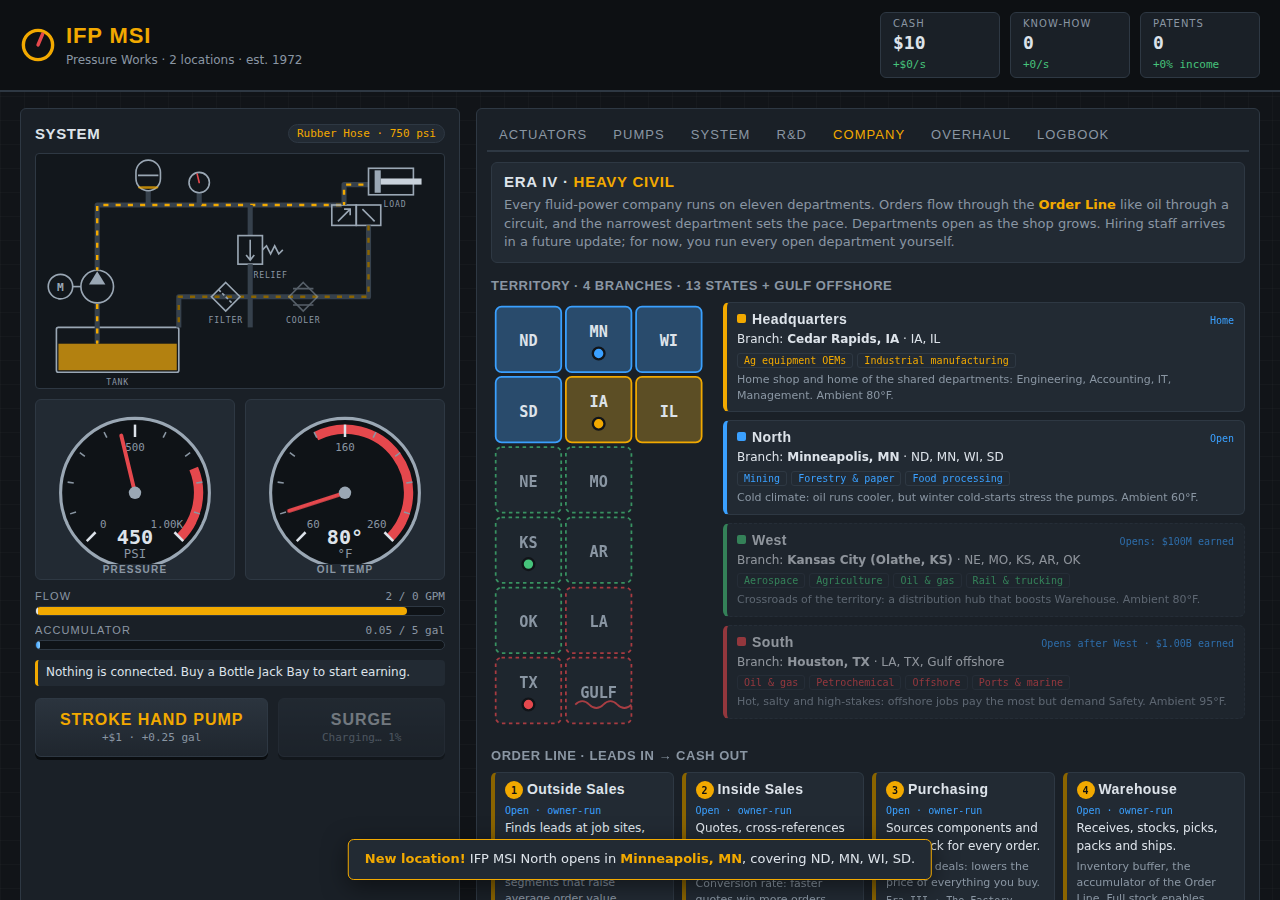
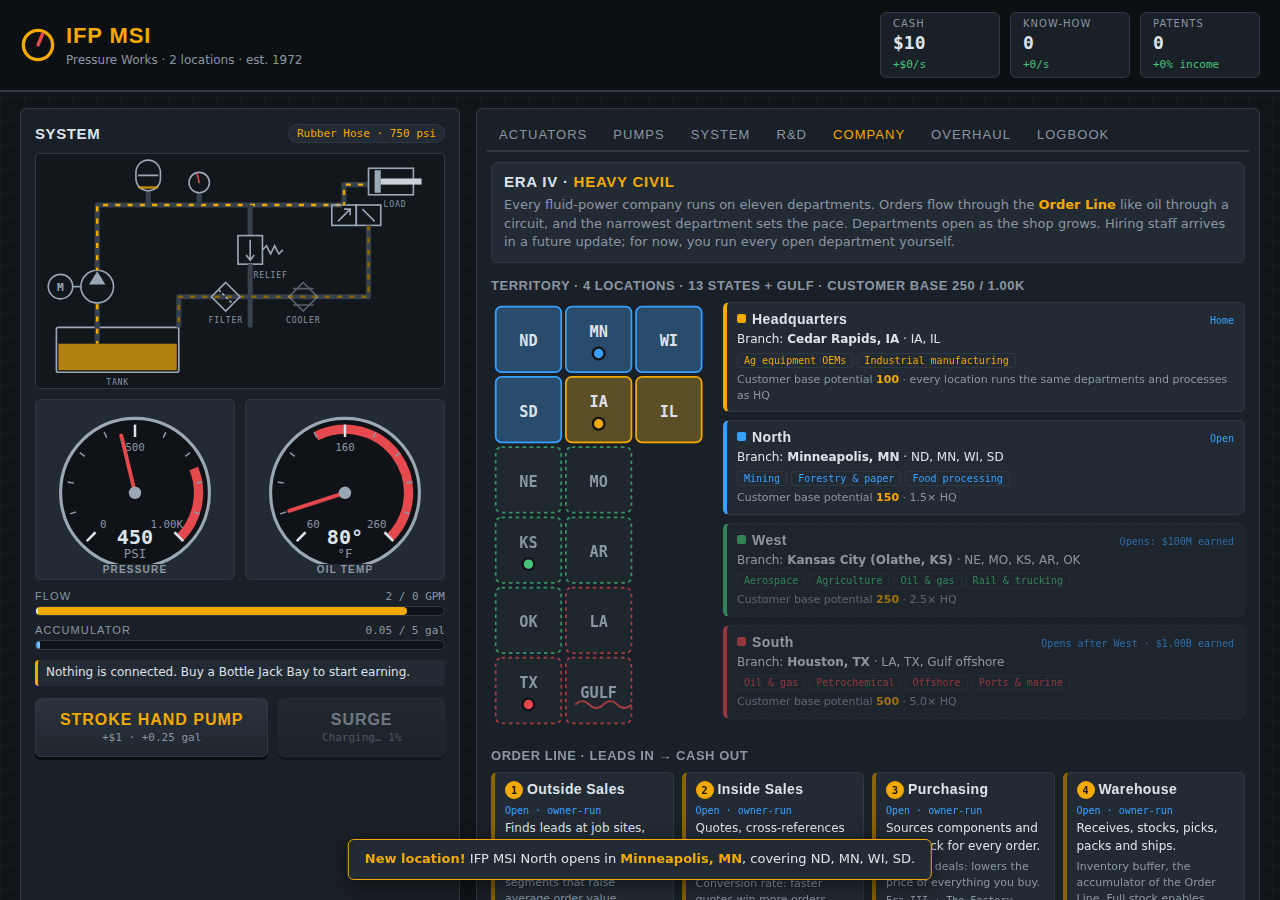
Make every location an extension of HQ that adds customer base
- Drop per-region mechanics (climate, hub, offshore rules): every location
  runs the same departments and processes as HQ
- STATES gain customer-base potential (HQ 100, North 150, West 250,
  South 500; 1,000 total); customerBase() helper
- Company tab shows each location's customer base and the open total
- TERRITORY.md: customer base as the demand ceiling (locations widen the
  market, Outside Sales raises penetration); roadmap and docs updated

Claude-Session: https://claude.ai/code/session_019K4gpM5MvitQKaF82oD189

diff --git a/src/data.js b/src/data.js
@@ -201,40 +201,39 @@
   ];
 
   // ---- Territory ------------------------------------------------------------
-  // See docs/TERRITORY.md. Four locations unlock in this order as the company
-  // grows (Iowa → North → West → South); each needs the one before it. They
-  // don't affect income yet. They cover 13 states plus the Gulf offshore region. `x, y` place each state on the
-  // tile map in the Company tab (a cartogram, not to scale).
+  // See docs/TERRITORY.md. Every location is an extension of HQ: same
+  // departments, same processes. What a new location adds is customer base.
+  // Locations unlock in this order as the company grows (Iowa → North → West →
+  // South); each needs the one before it. Customer base doesn't affect income
+  // yet. `customers` is relative customer-base potential (13 states + the Gulf
+  // = 1,000). `x, y` place each state on the Company tab's tile map (a
+  // cartogram, not to scale).
   const REGIONS = [
-    { id: 'hq', name: 'Headquarters', branch: 'Cedar Rapids, IA', opens: {}, era: 0, ambientF: 80,
-      markets: ['Ag equipment OEMs', 'Industrial manufacturing'],
-      twist: 'Home shop and home of the shared departments: Engineering, Accounting, IT, Management.' },
-    { id: 'north', name: 'North', branch: 'Minneapolis, MN', opens: { lifetime: 1e7 }, era: 3, ambientF: 60,
-      markets: ['Mining', 'Forestry & paper', 'Food processing'],
-      twist: 'Cold climate: oil runs cooler, but winter cold-starts stress the pumps.' },
-    { id: 'west', name: 'West', branch: 'Kansas City (Olathe, KS)', opens: { lifetime: 1e8 }, era: 3, ambientF: 80,
-      markets: ['Aerospace', 'Agriculture', 'Oil & gas', 'Rail & trucking'],
-      twist: 'Crossroads of the territory: a distribution hub that boosts Warehouse.' },
-    { id: 'south', name: 'South', branch: 'Houston, TX', opens: { lifetime: 1e9 }, era: 4, ambientF: 95,
-      markets: ['Oil & gas', 'Petrochemical', 'Offshore', 'Ports & marine'],
-      twist: 'Hot, salty and high-stakes: offshore jobs pay the most but demand Safety.' },
+    { id: 'hq',    name: 'Headquarters', branch: 'Cedar Rapids, IA',         opens: {},                era: 0,
+      markets: ['Ag equipment OEMs', 'Industrial manufacturing'] },
+    { id: 'north', name: 'North',        branch: 'Minneapolis, MN',          opens: { lifetime: 1e7 }, era: 3,
+      markets: ['Mining', 'Forestry & paper', 'Food processing'] },
+    { id: 'west',  name: 'West',         branch: 'Kansas City (Olathe, KS)', opens: { lifetime: 1e8 }, era: 3,
+      markets: ['Aerospace', 'Agriculture', 'Oil & gas', 'Rail & trucking'] },
+    { id: 'south', name: 'South',        branch: 'Houston, TX',              opens: { lifetime: 1e9 }, era: 4,
+      markets: ['Oil & gas', 'Petrochemical', 'Offshore', 'Ports & marine'] },
   ];
 
   const STATES = [
-    { id: 'ND', name: 'North Dakota', region: 'north', x: 1, y: 0 },
-    { id: 'MN', name: 'Minnesota',    region: 'north', x: 2, y: 0, branch: true },
-    { id: 'WI', name: 'Wisconsin',    region: 'north', x: 3, y: 0 },
-    { id: 'SD', name: 'South Dakota', region: 'north', x: 1, y: 1 },
-    { id: 'IA', name: 'Iowa',         region: 'hq',    x: 2, y: 1, branch: true },
-    { id: 'IL', name: 'Illinois',     region: 'hq',    x: 3, y: 1 },
-    { id: 'NE', name: 'Nebraska',     region: 'west',  x: 1, y: 2 },
-    { id: 'MO', name: 'Missouri',     region: 'west',  x: 2, y: 2 },
-    { id: 'KS', name: 'Kansas',       region: 'west',  x: 1, y: 3, branch: true },
-    { id: 'AR', name: 'Arkansas',     region: 'west',  x: 2, y: 3 },
-    { id: 'OK', name: 'Oklahoma',     region: 'west',  x: 1, y: 4 },
-    { id: 'LA', name: 'Louisiana',    region: 'south', x: 2, y: 4 },
-    { id: 'TX', name: 'Texas',        region: 'south', x: 1, y: 5, branch: true },
-    { id: 'GULF', name: 'Gulf offshore', region: 'south', x: 2, y: 5, offshore: true },
+    { id: 'ND',   name: 'North Dakota',  region: 'north', customers: 25,  x: 1, y: 0 },
+    { id: 'MN',   name: 'Minnesota',     region: 'north', customers: 60,  x: 2, y: 0, branch: true },
+    { id: 'WI',   name: 'Wisconsin',     region: 'north', customers: 50,  x: 3, y: 0 },
+    { id: 'SD',   name: 'South Dakota',  region: 'north', customers: 15,  x: 1, y: 1 },
+    { id: 'IA',   name: 'Iowa',          region: 'hq',    customers: 40,  x: 2, y: 1, branch: true },
+    { id: 'IL',   name: 'Illinois',      region: 'hq',    customers: 60,  x: 3, y: 1 },
+    { id: 'NE',   name: 'Nebraska',      region: 'west',  customers: 40,  x: 1, y: 2 },
+    { id: 'MO',   name: 'Missouri',      region: 'west',  customers: 60,  x: 2, y: 2 },
+    { id: 'KS',   name: 'Kansas',        region: 'west',  customers: 50,  x: 1, y: 3, branch: true },
+    { id: 'AR',   name: 'Arkansas',      region: 'west',  customers: 40,  x: 2, y: 3 },
+    { id: 'OK',   name: 'Oklahoma',      region: 'west',  customers: 60,  x: 1, y: 4 },
+    { id: 'LA',   name: 'Louisiana',     region: 'south', customers: 100, x: 2, y: 4 },
+    { id: 'TX',   name: 'Texas',         region: 'south', customers: 300, x: 1, y: 5, branch: true },
+    { id: 'GULF', name: 'Gulf offshore', region: 'south', customers: 100, x: 2, y: 5, offshore: true },
   ];
 
   const CONSTANTS = {

diff --git a/src/ui.js b/src/ui.js
@@ -181,7 +181,7 @@
       const x = X0 + st.x * (T + G), y = Y0 + st.y * (T + G);
       const r = REGIONS.find((g) => g.id === st.region);
       svg += `<g class="tile region-${st.region}${st.offshore ? ' offshore' : ''}" data-state="${st.id}">
-        <title>${st.name} · ${r.name} region${st.branch ? ' · branch: ' + r.branch : ''}</title>
+        <title>${st.name} · ${r.name} · customer base ${st.customers}${st.branch ? ' · location: ' + r.branch : ''}</title>
         <rect x="${x}" y="${y}" width="${T}" height="${T}" rx="5"/>
         ${st.offshore ? `<path class="waves" d="M${x + 8} ${y + 40} q6 -6 12 0 t12 0 t12 0 t12 0"/>` : ''}
         <text x="${x + T / 2}" y="${y + (st.branch ? 26 : 34)}">${st.offshore ? 'GULF' : st.id}</text>
@@ -200,13 +200,17 @@
       el.innerHTML = `<div class="dept-head"><span class="dept-name"><i class="swatch"></i>${r.name}</span><span class="dept-status"></span></div>
         <div class="dept-role">Branch: <b>${r.branch}</b> · ${states.join(', ')}</div>
         <div class="dept-teams">${r.markets.map((m) => `<span>${m}</span>`).join('')}</div>
-        <div class="dept-twist">${r.twist} Ambient ${r.ambientF}°F.</div>`;
+        <div class="dept-twist">Customer base potential <b>${fmt(E.customerBase(null, r.id))}</b>${r.id === 'hq'
+          ? ' · every location runs the same departments and processes as HQ'
+          : ` · ${(E.customerBase(null, r.id) / E.customerBase(null, 'hq')).toFixed(1)}× HQ`}</div>`;
       list.appendChild(el);
       regionEls[r.id] = { el, status: el.querySelector('.dept-status') };
     }
   }
 
   function renderTerritory(s) {
+    const total = STATES.reduce((sum, st) => sum + st.customers, 0);
+    $('customer-base').textContent = `customer base ${fmt(E.customerBase(s))} / ${fmt(total)}`;
     for (const r of REGIONS) {
       const open = E.regionOpen(s, r);
       regionEls[r.id].el.classList.toggle('closed', !open);

diff --git a/src/engine.js b/src/engine.js
@@ -305,6 +305,12 @@
     const i = DATA.REGIONS.indexOf(region);
     return (i === 0 || !!s.locations[DATA.REGIONS[i - 1].id]) && opensMet(s, region.opens);
   }
+  /** Customer-base potential of a region, or of every open location if omitted. */
+  function customerBase(s, regionId) {
+    return DATA.STATES
+      .filter((st) => (regionId ? st.region === regionId : s.locations[st.region]))
+      .reduce((sum, st) => sum + st.customers, 0);
+  }
   /** Records newly reached locations and returns them (for announcements). */
   function checkLocations(s) {
     const opened = [];
@@ -343,7 +349,7 @@
     bulkCost, maxAffordable, isUnlocked, quote, buy,
     nextTier, canUpgradeTier, upgradeTier, accCapacity, accUpgradeCost, upgradeAccumulator,
     techAvailable, research, click, canSurge, surge,
-    patentsTotal, overhaulGain, canOverhaul, overhaul, opensMet, departmentOpen, regionOpen, checkLocations, currentEra,
+    patentsTotal, overhaulGain, canOverhaul, overhaul, opensMet, departmentOpen, regionOpen, checkLocations, customerBase, currentEra,
     serialize, deserialize,
   };
   root.PW = root.PW || {};

diff --git a/index.html b/index.html
@@ -172,7 +172,7 @@
             <b>Order Line</b> like oil through a circuit, and the narrowest department sets the pace.
             Departments open as the shop grows. Hiring staff arrives in a future update; for now, you run every open department yourself.</p>
         </div>
-        <h3>Territory <span class="muted">· 4 branches · 13 states + Gulf offshore</span></h3>
+        <h3>Territory <span class="muted">· 4 locations · 13 states + Gulf · <span id="customer-base"></span></span></h3>
         <div class="territory">
           <svg id="territory-map" class="territory-map" viewBox="0 0 188 368" role="img" aria-label="Territory map"></svg>
           <div id="region-list" class="region-list"></div>

diff --git a/docs/TERRITORY.md b/docs/TERRITORY.md
@@ -1,9 +1,11 @@
-# Territory — branches, regions and states
+# Territory — locations and customer base
 
-> Design v0.2. In the game today: the company is **IFP MSI**, and locations
-> **unlock in order as you grow, Iowa → North → West → South**, each with a
-> "New location!" announcement. The map is on the **Company** tab. The
-> regional mechanics below come later.
+> Design v0.3. **Every location is an extension of HQ:** the same departments,
+> the same processes, but a bigger customer base. In the game today, the
+> company is **IFP MSI**, and locations **unlock in order as you grow, Iowa →
+> North → West → South**, each with a "New location!" announcement. The Company
+> tab shows the map and each location's customer-base potential. Customer base
+> starts affecting income once Departments ship.
 
 ## Real-world basis
 
@@ -50,54 +52,54 @@ and as the company grows it unlocks new locations in a fixed order:
 *Optional flavor:* the logbook's calendar starts in **1972**, and each era is
 roughly a decade, ending in the present day.
 
-## How branches fit the Departments system
+## Every location is an extension of HQ
 
-Branches are where the Order Line meets geography. **Working assumption (please
-correct it):** each branch runs its own customer-facing departments, and HQ runs
-the shared ones.
+A new location doesn't bring new rules. It runs the **same eleven departments
+and the same processes** as Cedar Rapids, and it sells the same products,
+Valve-Paks, Base-Paks and Sys-Paks included. What it adds is **more customers to
+sell to**.
 
-| Runs at every branch | Shared from HQ |
-|---|---|
-| Outside Sales, Inside Sales, Warehouse, Production (service & repair shop) | Engineering, Accounting, IT, Management, Purchasing, Quality, Safety |
+That keeps the game easy to read. The player learns one company, and every
+location makes that company bigger.
 
-So:
+## Customer base: the demand ceiling
 
-- A branch adds a **parallel Order Line front end**: its own leads, quotes,
-  stock and shop. The branches' output then merges into HQ's shared back half
-  (Quality, Accounting). Branches add capacity. They don't add new bottlenecks
-  to the shared departments, but they **do** push more volume through them.
-  Grow branches and you'll need to grow HQ.
-- **Engineering stays at HQ,** so every Valve-Pak, Base-Pak and Sys-Pak comes
-  from Cedar Rapids. Branches *sell* Paks into their regional markets, and
-  Sys-Pak projects are tagged with a region (for example, "Gulf platform HPU",
-  "Iron Range crusher system", "Wichita test-stand").
+Each state has a **customer-base potential**. A location adds all of its states
+when it opens:
 
-## Regional twists
+| Location | States (potential) | Customer base | vs HQ |
+|---|---|---:|---:|
+| **HQ** · Cedar Rapids | IA 40, IL 60 | 100 | 1× |
+| **North** · Minneapolis | MN 60, WI 50, ND 25, SD 15 | 150 | 1.5× |
+| **West** · Kansas City | MO 60, OK 60, KS 50, NE 40, AR 40 | 250 | 2.5× |
+| **South** · Houston | TX 300, LA 100, Gulf offshore 100 | 500 | 5× |
+| **Total** | 13 states + Gulf | **1,000** | |
 
-Each region has one mechanical twist, the way each department does.
+The numbers are relative and easy to change (`STATES[].customers` in
+`src/data.js`). If you have a better sense of the real relative sizes, swap them in.
 
-| Region | Twist | Mechanic (first pass) |
-|---|---|---|
-| **HQ** | Home of the shared departments | Shared-department capacity +10% per open branch (economies of scale) |
-| **North** | Cold climate | Branch shop ambient **60°F**, so cooling goes further. Winter **cold-start** events: for 60 s after one, pump efficiency drops 5% unless the branch has reservoir heaters. |
-| **West** | Crossroads distribution hub | Warehouse capacity ×1.5 company-wide while West is open; Rush Ship lasts longer |
-| **South** | Hot, salty, high-stakes | Branch shop ambient **95°F**, so it needs more cooling. **Offshore** jobs pay ×3 but need a minimum Safety level, and their incidents cost twice as much. |
+**How it plays (with Departments):** customers set the most the company can
+sell, however much the shop can produce.
 
-The ambient temperatures plug straight into the existing heat formula
-(`T_eq = ambient + heat / k`), so a branch shop in Houston really does run hotter
-than one in Minneapolis.
+```
+demand ceiling ($/s) = customer base of open locations × market penetration × $ per customer point
+realized income      = min(Order Line throughput, demand ceiling)
+```
 
-## States: coverage within a region
+- **Locations widen the market.** Each unlock is a big step: total customer base
+  goes 100 → 250 → 500 → 1,000, so the ceiling rises ×2.5, ×2 and ×2.
+- **Outside Sales digs deeper into it.** *Market penetration* grows with
+  Outside Sales headcount and the industry markets they open (ag equipment,
+  mining, aerospace, oil & gas…). That's the steady growth between unlocks.
+- When the shop out-produces its customers, the alert says so: *"Customers are
+  maxed out: 30% of production unsold. Grow Outside Sales or open the next
+  location."* Opening a new location is the big release.
 
-When a region opens, its branch's home state is covered. Outside Sales then
-**expands coverage** state by state:
+Until Departments ship there is no ceiling, and customer base is only shown.
 
-- Covering a state is a one-time purchase (`300 s × production at the time`, ×2
-  for each state already covered in that region).
-- Each covered state adds **+10% leads** in its region and opens that state's
-  **signature market** for Outside Sales:
+## Industries by state (flavor for markets and projects)
 
-| State | Signature market | State | Signature market |
+| State | Signature industry | State | Signature industry |
 |---|---|---|---|
 | IA | Ag equipment | KS | Aerospace |
 | IL | Heavy equipment manufacturing | NE | Irrigation & agriculture |
@@ -107,28 +109,22 @@ When a region opens, its branch's home state is covered. Outside Sales then
 | SD | Agriculture | TX | Oil & gas, petrochemical |
 | GULF | Offshore platforms | LA | Petrochemical, ports & marine |
 
-On the map, covered states fill with the region's color, and uncovered states
-in an open region are outlined.
+These name the Outside Sales markets, and they tag Sys-Pak projects with a place
+(for example, "Gulf platform HPU", "Iron Range crusher system", "Wichita test
+stand"). Projects from a location only show up once it's open.
 
 ## Implementation phases
 
-1. **Placeholder (done).** Territory map and region cards on the Company tab,
-   driven by `REGIONS`/`STATES`, opening on the conditions above with no effect
-   on income.
-2. **Branches as Order Line front ends.** Opening a branch adds a parallel
-   Outside Sales → Inside Sales → Warehouse feed into the shared back half.
-   State coverage. Regional market multipliers. This depends on Departments v0.2.
-3. **Branch shops.** Each branch gets its own small hydraulic shop floor using
-   the region's ambient temperature, switched with a location picker on the
-   System panel. Repair & refurbishing jobs live here as a **service bench**:
-   customers bring in worn cylinders and pumps, you rebuild them for cash, and
-   that's a light active loop.
-4. **Offshore.** Gulf jobs: high pay, need Safety, punishing incidents.
+1. **Done.** Territory map, unlock order with announcements, locations kept
+   through Overhaul, customer base shown per location and in total.
+2. **With Departments.** Demand ceiling = customer base × market penetration;
+   Outside Sales drives penetration; the "customers maxed out" alert.
+3. **Projects and markets.** Location-tagged Sys-Pak projects and per-state
+   industry markets.
 
 ## Open questions
 
-- Is the "branch-local vs HQ-shared" split above how the business really works?
-  For example, does each location have its own Purchasing or Warehouse? Does
-  Production at a branch mean repair and service, manufacturing, or both?
+- Do the relative customer-base sizes (South biggest, then West, North, HQ) feel
+  right for the business?
 - Should the map stay a tidy tile grid, or switch to a real (stylized)
   geographic map later?

diff --git a/README.md b/README.md
@@ -28,7 +28,7 @@ python3 -m http.server 8000   # then visit http://localhost:8000
 - Spare flow charges the **accumulator**. Dump it with **Surge** for ×3–×4 income.
 - **Know-how** funds a 17-node **R&D tree** of real hydraulic breakthroughs.
 - **Overhaul** (prestige) trades everything for **Patents**, each one +10% income forever.
-- The **Company** tab previews the territory (four branches, 13 states) and the eleven departments that run the business. They're coming in the next update.
+- As you grow, new **locations** unlock: Iowa → North → West → South. The **Company** tab shows them on a map with their customer base, alongside the eleven departments that run the business (those come in the next update).
 
 ## Project layout
 
@@ -50,7 +50,7 @@ docs/               design documents and sketches
 |---|---|
 | [GAME_DESIGN.md](docs/GAME_DESIGN.md) | Pitch, pillars, core loop, every system, eras, presentation |
 | [DEPARTMENTS.md](docs/DEPARTMENTS.md) | **Next major system:** the eleven departments as an Order Line, plus Engineering's Valve-Pak / Base-Pak / Sys-Pak lines |
-| [TERRITORY.md](docs/TERRITORY.md) | Branches and regions: HQ in Iowa plus North, West and South branches across 13 states and the Gulf |
+| [TERRITORY.md](docs/TERRITORY.md) | Locations unlock Iowa → North → West → South; each extends HQ and adds customer base |
 | [ECONOMY.md](docs/ECONOMY.md) | Formulas, content tables, pacing targets vs simulated results |
 | [TECH_TREE.md](docs/TECH_TREE.md) | The R&D tree (diagram, effects, real-world background) |
 | [ROADMAP.md](docs/ROADMAP.md) | Milestones and open questions |

diff --git a/docs/GAME_DESIGN.md b/docs/GAME_DESIGN.md
@@ -209,8 +209,9 @@ Ordered roughly by how much they add per unit of work. See [ROADMAP.md](ROADMAP.
    Controls (automation) and Project, which builds **Valve-Paks → Base-Paks →
    Sys-Paks** from the shop's own hardware. Full design in
    [DEPARTMENTS.md](DEPARTMENTS.md).
-   Departments run across a **territory** of four branches (HQ Cedar Rapids; North, West and South)
-   covering 13 states and the Gulf; see [TERRITORY.md](TERRITORY.md).
+   As the company grows it unlocks locations, Iowa → North → West → South, across 13
+   states and the Gulf. Each one is an extension of HQ that adds customer base; see
+   [TERRITORY.md](TERRITORY.md).
 2. **Sys-Pak projects (contracts).** Timed, named jobs ("Steel-mill descaler:
    3 Base-Paks, 6,000 psi, servo control") that pay lump sums and Know-how.
    They give active players goals beyond clicking and replace the earlier

diff --git a/docs/ROADMAP.md b/docs/ROADMAP.md
@@ -32,10 +32,9 @@ Design: [DEPARTMENTS.md](DEPARTMENTS.md)
 
 Design: [TERRITORY.md](TERRITORY.md)
 
-- [ ] Branches as parallel Order Line front ends feeding HQ's shared departments
-- [ ] State coverage purchases and regional markets
-- [ ] Regional twists (North cold, West hub, South heat + offshore)
-- [ ] Branch shops with their own ambient temperature; service bench for repair & refurbishing
+- [ ] Demand ceiling = customer base of open locations × market penetration
+- [ ] Outside Sales drives penetration; "customers maxed out" alert
+- [ ] Location-tagged Sys-Pak projects and per-state industry markets
 
 ## v0.3 — Make it feel good
 

diff --git a/docs/DEPARTMENTS.md b/docs/DEPARTMENTS.md
@@ -286,6 +286,6 @@ Any department that hasn't opened is left out of the `min()`.
 - Should the existing R&D tab move under Engineering in the UI, or stay
   top-level for discoverability?
 - Should Warehouse inventory decay (obsolete stock) to stop players overbuilding it?
-- Branches are now designed in [TERRITORY.md](TERRITORY.md): four regions and
-  13 states, with customer-facing departments at each branch and shared
-  departments at HQ.
+- Locations are designed in [TERRITORY.md](TERRITORY.md). Every location is an
+  extension of HQ with the same departments and processes, and adds customer
+  base, which caps demand.
